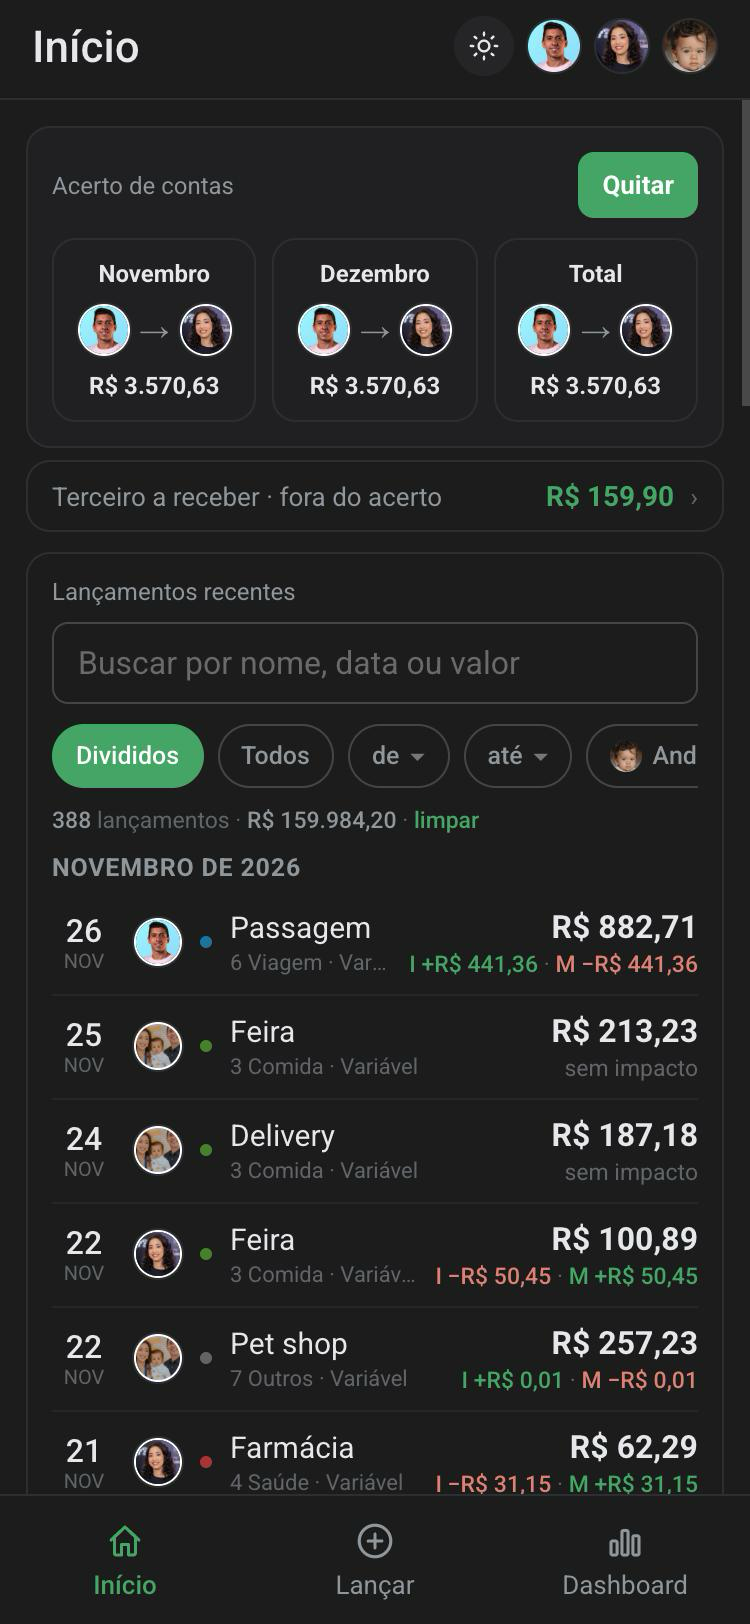
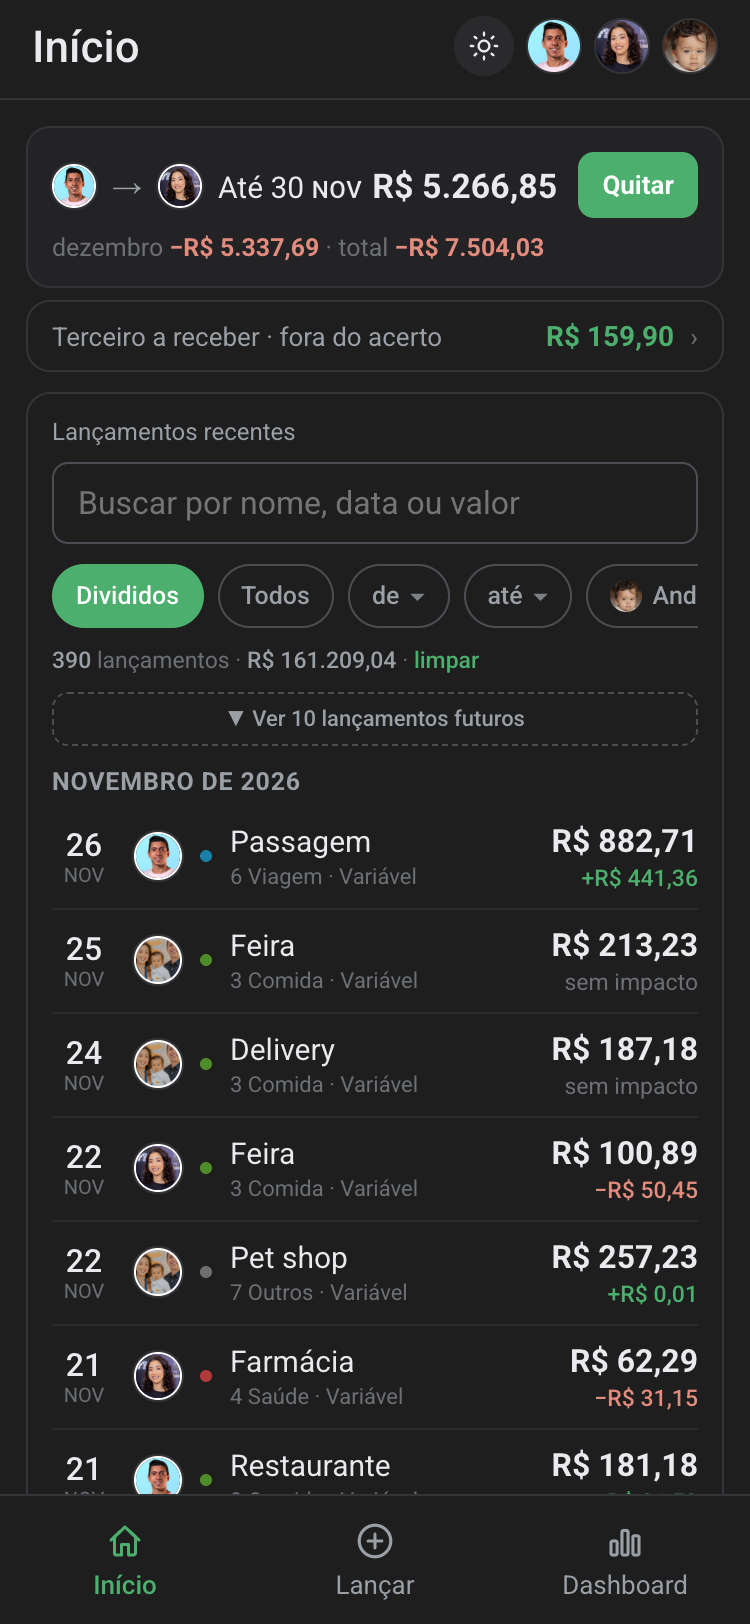
Os prints voltam, agora por comando e mostrando a fatura
Os seis prints anteriores nasceram velhos. Foram tirados à mão de um worktree
preso num commit anterior, para não colidir com outra sessão que estava mexendo
na fatura ao mesmo tempo, e três commits do mesmo dia mudaram exatamente as
telas fotografadas. Print tirado à mão envelhece em silêncio: continua bonito e
continua errado.

Agora é `npm run prints`. O script gera uma fatura fictícia no layout do Itaú,
sobe o Chrome que já existe na máquina pelo `playwright-core` (que não baixa
navegador nenhum), e tira as seis telas em 375×812 com densidade 2 — que é o
aparelho em que o app é usado, e onde os defeitos de largura aparecem.

A fatura de exemplo é desenhada para provar alguma coisa: ela cai nas quatro
abas da revisão, com três linhas que o app já tem, uma parcela de série
conhecida, uma primeira parcela que vira série nova, cinco compras novas, um
estorno que cancela uma delas e o pagamento da fatura, que não é gasto.

Trocadas as duas telas de terceiro pelas duas da fatura: importar em lote é o
que fez o app deixar de competir com planilha, e era o que faltava mostrar.

A base de demonstração também cresceu, de 483 para 495 lançamentos, com o
segundo parcelamento. O resumo do semeador agora separa os meses cheios das
parcelas que seguem adiante, em vez de afirmar um intervalo que não era o do
banco.

diff --git a/scripts/semear-demo.ts b/scripts/semear-demo.ts
@@ -386,8 +386,9 @@ async function main() {
     )}`;
   }
 
-  const [fim] = await sql<{ n: number; t: string }[]>`
-    select count(*)::int as n, coalesce(sum(valor_total),0)::text as t from lancamentos`;
+  const [fim] = await sql<{ n: number; t: string; ate: string }[]>`
+    select count(*)::int as n, coalesce(sum(valor_total),0)::text as t,
+           to_char(max(data), 'MM/YYYY') as ate from lancamentos`;
   const [ter] = await sql<{ pessoas: number; aberto: string }[]>`
     select count(*)::int as pessoas, coalesce(sum(saldo),0)::text as aberto
       from v_terceiros where saldo > 0.005`;
@@ -396,8 +397,11 @@ async function main() {
 
   const [a0, m0] = MESES[0];
   const [a1, m1] = MESES[MESES.length - 1];
+  /* Dois recortes, não um: os meses CHEIOS vão até agora, e as parcelas de um
+     parcelamento nascem todas (A19), então a última data do banco é maior. */
   console.log(
-    `\n✓ ${fim.n} lançamentos entre ${String(m0).padStart(2, '0')}/${a0} e ${String(m1).padStart(2, '0')}/${a1}`,
+    `\n✓ ${fim.n} lançamentos · meses cheios de ${String(m0).padStart(2, '0')}/${a0} a ${String(m1).padStart(2, '0')}/${a1}` +
+      `, com parcelas até ${fim.ate}`,
   );
   console.log(`  2 parcelamentos (6x e 12x) · 1 importação de fatura · 1 quitação`);
   console.log(`  ${ter.pessoas} terceiro(s) devendo R$ ${Number(ter.aberto).toFixed(2)}`);

diff --git a/README.md b/README.md
@@ -24,9 +24,9 @@ descrita mais adiante. **Os dados são fictícios; o app é o mesmo.**
 | | | |
 |:--:|:--:|:--:|
 | ![Início](docs/prints/01-inicio.png) | ![Lançar](docs/prints/02-lancar.png) | ![Dashboard](docs/prints/06-dashboard.png) |
-| **Início** — o acerto, os terceiros e a lista | **Lançar** — categoria, tipo e divisão | **Dashboard** — o peso das fixas é o indicador que importa |
-| ![Importar](docs/prints/03-importar.png) | ![Terceiros](docs/prints/04-terceiros.png) | ![Extrato do terceiro](docs/prints/05-terceiro-extrato.png) |
-| **Importar** — fatura do cartão em lote | **Quem nos deve** — gasto de terceiro, fora do acerto | **Extrato** — o que ele deve e o que já devolveu |
+| **Início** — o acerto, quem nos deve, e a lista mostrando o efeito de cada linha | **Lançar** — quem pagou e de quem é o gasto são duas perguntas diferentes | **Dashboard** — o peso das fixas é o indicador que importa |
+| ![Importar](docs/prints/03-importar.png) | ![Revisar a fatura](docs/prints/04-fatura.png) | ![Editar uma linha](docs/prints/05-fatura-editar.png) |
+| **Importar** — a fatura do cartão entra em lote | **Revisar** — o app separa o que já existe, o que é parcela e o que é novo, e desmarca o que foi estornado | **Editar** — a linha da fatura vira o Lançar, com menos perguntas |
 
 ## Como funciona
 
@@ -61,7 +61,7 @@ para sempre.
 
 Por isso cada regra que este app aprendeu virou texto em
 [`docs/INVARIANTES.md`](docs/INVARIANTES.md), sempre com o defeito concreto que a
-gerou. São **48 regras numeradas**, e **20 delas são verificadas por máquina**
+gerou. São **56 regras numeradas**, e o verificador roda **20 checagens por máquina**
 contra o banco de produção:
 
 ```bash
@@ -91,10 +91,12 @@ O banco sobe vazio. Para ver o app funcionando com dados:
 npm run semear-demo
 ```
 
-Ele cria 483 lançamentos fictícios cobrindo 18 meses, de junho de 2025 a novembro
-de 2026: as despesas fixas com suas regras de recorrência, um parcelamento em 6x,
-uma importação de fatura, uma quitação entre os dois, um gasto de terceiro já
-devolvido e outro em aberto, e a posição mensal de um investimento.
+Ele cria 495 lançamentos fictícios. São dezoito meses cheios, de junho de 2025 a
+novembro de 2026, e mais as parcelas que seguem até agosto de 2027, porque um
+parcelamento nasce com a série inteira. Dentro vão as despesas fixas com suas
+regras de recorrência, dois parcelamentos (um de 6x e um de 12x, que atravessa o
+ano), uma importação de fatura, uma quitação entre os dois, um gasto de terceiro
+já devolvido e outro em aberto, e a posição mensal de um investimento.
 
 Duas coisas valem ser ditas sobre ele. É **determinístico**, com semente fixa, então
 todo mundo vê exatamente a mesma tela. E ele importa `pctIrwinDe` e `pagoIrwinDe`
@@ -111,7 +113,7 @@ o que você quer).
 | Comando | O que faz |
 |---|---|
 | `npm run dev` | Servidor local |
-| `npm test` | 70 testes da lógica pura |
+| `npm test` | 81 testes da lógica pura |
 | `npm run invariantes` | Verifica 20 regras contra o banco |
 | `npm run semear-demo` | Enche um banco vazio com dados fictícios |
 | `npm run checar-rotas` | Garante que toda rota tem porta de entrada |
@@ -120,6 +122,7 @@ o que você quer).
 | `npm run db:migrate` | Aplica migrações |
 | `npm run db:views` | Recria as views |
 | `npm run reconcile -- <xlsx>` | Compara banco com planilha, linha a linha |
+| `npm run prints` | Refaz os seis prints acima contra o app rodando |
 
 ## Como replicar na sua casa
 
